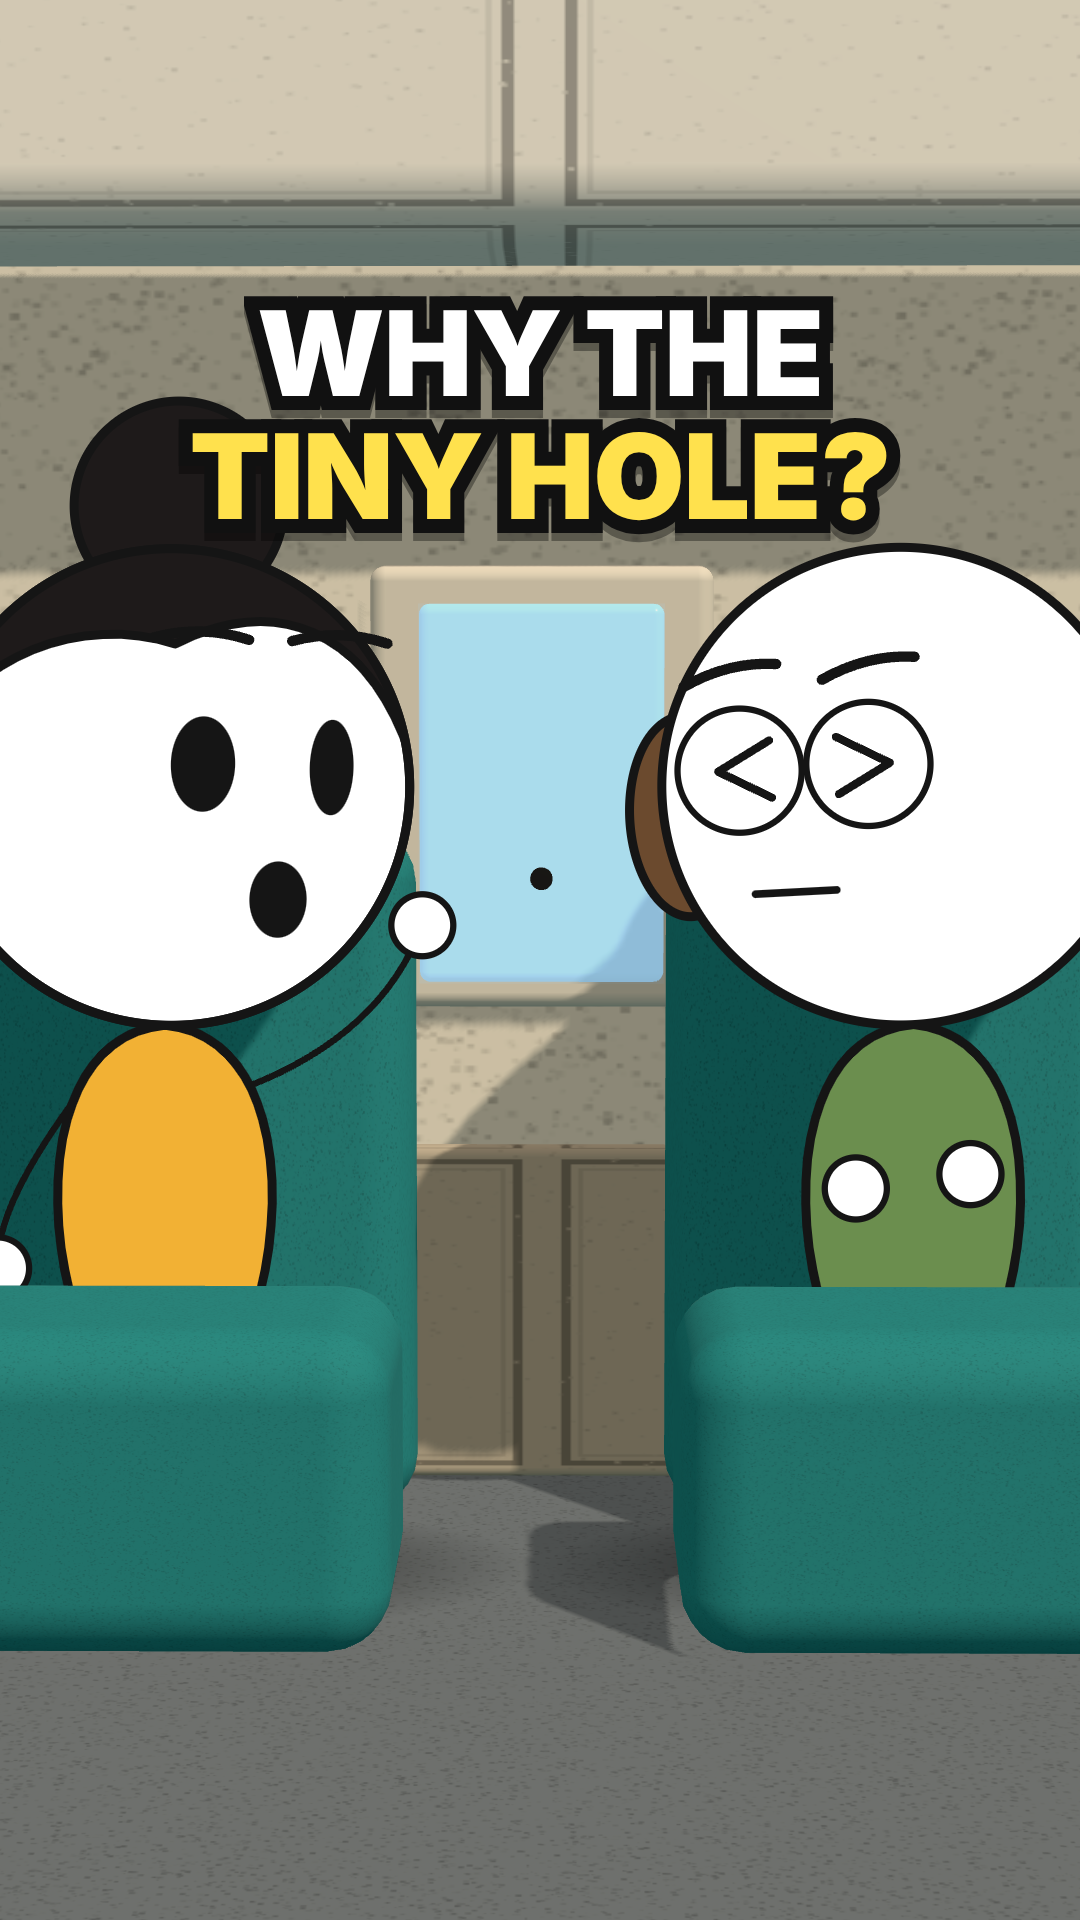
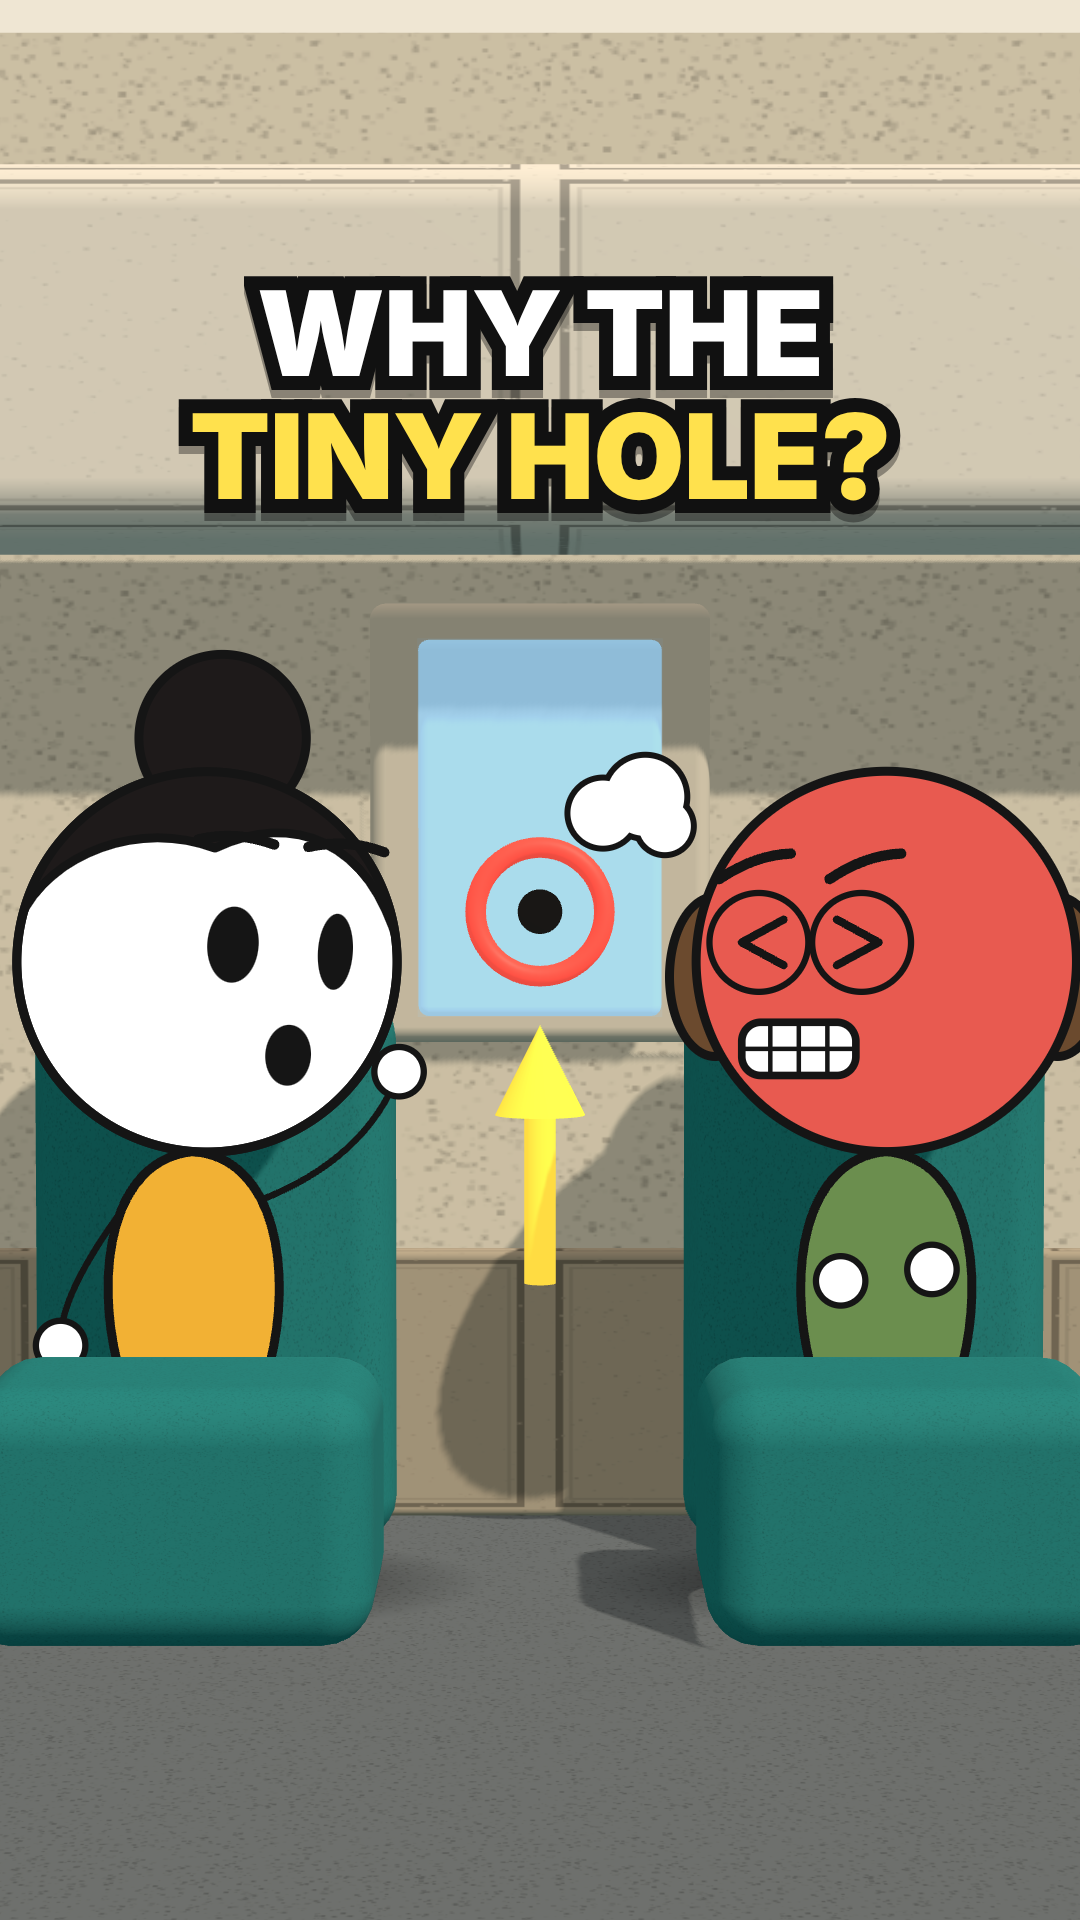
windowhole: redesigned thumbnails (big window with ringed hole, reacting characters, cutaway)
Claude-Session: https://claude.ai/code/session_012R7ivGCTn9A3aAH1J3jYsd

diff --git a/shorts/windowhole-short/src/Short.tsx b/shorts/windowhole-short/src/Short.tsx
@@ -32,11 +32,11 @@ const OTTO0: Partial<PersonPose> = {view: 'left', handL: [24, -168], handR: [-24
 const WALLZ = -1.2;
 const CAB: Light = {sun: [3, 5, 4], sunColor: '#FFF1DC', sunI: 2.1, sky: '#FFF6E8', bounce: '#8FA8A6', ambI: 1.5, fog: ['#EADFCB', 16, 50], focus: [0, 0.8, -0.5], span: 5};
 const CAB_SKY: [string, string] = ['#EFE6D3', '#EFE6D3'];
-const Win: React.FC<{x?: number; hole?: boolean; haze?: number; sc?: number}> = ({x = 0, hole = true, haze = 0, sc = 1}) => (<group position={[x, 0, WALLZ]} scale={sc}>
+const Win: React.FC<{x?: number; hole?: boolean; haze?: number; sc?: number; holeR?: number}> = ({x = 0, hole = true, haze = 0, sc = 1, holeR = 0.02}) => (<group position={[x, 0, WALLZ]} scale={sc}>
   <Box pos={[0, 0.88, 0.02]} size={[0.62, 0.8, 0.06]} color="#E4DCCB" r={0.14} rough={0.6} />
   <Box pos={[0, 0.93, 0.07]} size={[0.44, 0.68, 0.04]} color="#74B8EE" r={0.1} rough={0.2} emissive="#9ED3F7" glow={0.75} />
   <Box pos={[0, 0.93, 0.1]} size={[0.44, 0.68, 0.01]} color="#D6ECFB" opacity={0.3} r={0.1} rough={0.1} cast={false} />
-  {hole && <Cyl pos={[0, 1.12, 0.112]} rot={[Math.PI / 2, 0, 0]} r={0.02} h={0.012} color="#0B0B0D" cast={false} />}
+  {hole && <Cyl pos={[0, 1.12, 0.112]} rot={[Math.PI / 2, 0, 0]} r={holeR} h={0.012} color="#0B0B0D" cast={false} />}
   {haze > 0.01 && <Box pos={[0, 0.93, 0.125]} size={[0.44, 0.68, 0.01]} color="#F4F7FA" opacity={haze} r={0.1} cast={false} />}
 </group>);
 const Cabin: React.FC<{wins?: number[]; haze?: number; hole?: boolean; sc?: number; seats?: boolean}> = ({wins = [0], haze = 0, hole = true, sc = 1, seats = true}) => (<>
@@ -279,8 +279,36 @@ export const Short: React.FC<{voice?: boolean; captions?: boolean; guides?: bool
   </AbsoluteFill>);
 };
 
-// ---------------------------------------------------------------- thumbnails (frames of the video + text)
+// ---------------------------------------------------------------- thumbnails (purpose-built frames + text)
+const Ring: React.FC<{p: V3; r: number}> = ({p, r}) => (<mesh position={p}><torusGeometry args={[r, r * 0.16, 14, 48]} /><meshStandardMaterial color="#E5483D" emissive="#E5483D" emissiveIntensity={0.9} roughness={0.5} /></mesh>);
+const ThumbSeats: React.FC<{xs: number[]; front?: boolean}> = ({xs, front}) => (<>{xs.map((x, i) => front
+  ? <Box key={i} pos={[x, 0, -0.3]} size={[0.8, 0.5, 0.52]} color="#1F8A8A" map={tex('speckle', [3, 3], 14)} r={0.1} />
+  : <Box key={i} pos={[x, 0, -0.98]} size={[0.8, 1.22, 0.2]} color="#1F8A8A" map={tex('speckle', [3, 3], 12)} r={0.1} />)}</>);
+/** the big window with an exaggerated hole, a red ring and a yellow arrow pointing at it */
+const HeroWindow: React.FC<{x: number; sc: number}> = ({x, sc}) => {
+  const hp: V3 = [x, 1.12 * sc, WALLZ + 0.112 * sc + 0.035];
+  return (<><Win x={x} sc={sc} holeR={0.04} /><Ring p={hp} r={0.115 * sc} />
+    <Arrow pos={[hp[0], hp[1] - 0.66 * sc, hp[2] + 0.05]} rot={[0, 0, 0]} len={0.3 * sc} s={1} /></>);
+};
+const ThumbA: React.FC = () => (
+  <World cam={{pos: [0, 1.5, 5.2], look: [0, 1.3, -0.8], fov: 38}} light={CAB} sky={CAB_SKY}
+    scene={<><Cabin wins={[]} seats={false} /><ThumbSeats xs={[-0.72, 0.72]} /><HeroWindow x={0} sc={1.25} /></>} front={<ThumbSeats xs={[-0.72, 0.72]} front />}>
+    <Cel at={[-0.72, 0, -0.55]}><Mia view="right" handR={[108, -272]} handL={[-70, -128]} eyes="wide" mouth="o" browUp={1} headTilt={4} /></Cel>
+    <Cel at={[0.72, 0, -0.55]}><Otto view="left" handL={[24, -168]} handR={[-24, -162]} eyes="squeeze" mouth="teeth" brow={0.9} tint="#E5483D" tintAmt={0.9} steam={0.9} t={1} /></Cel>
+  </World>);
+const ThumbB: React.FC = () => (
+  <World cam={{pos: [0, 1.5, 4.4], look: [0, 1.25, -0.8], fov: 38}} light={CAB} sky={CAB_SKY}
+    scene={<><Cabin wins={[]} seats={false} /><ThumbSeats xs={[0.42]} /><HeroWindow x={-0.38} sc={1.15} /></>} front={<ThumbSeats xs={[0.42]} front />}>
+    <Cel at={[0.42, 0, -0.55]}><Otto view="left" handL={[24, -168]} handR={[-24, -162]} eyes="squeeze" mouth="teeth" brow={0.9} tint="#E5483D" tintAmt={0.9} steam={0.9} t={1} /></Cel>
+  </World>);
+const ThumbC: React.FC = () => (
+  <World cam={{pos: [0.0, 1.3, 5.2], look: [-0.12, 0.62, 0], fov: 38}} light={STAGE} sky={STAGE_SKY}
+    scene={<><Stage /><GlassP x={-0.5} hot={0.9} /><GlassP x={0} holed /><GlassP x={0.5} />
+      {[0.35, 0.61, 0.87].map((y, i) => <Arrow key={i} pos={[0.95, y, 0]} rot={[0, 0, POINT_L]} len={0.35} s={1} />)}
+      <Dots pts={cloudPts(30, 0.1, 1.0, 0.08, 1.12, -0.3, 0.3, 90, 0)} r={0.03} color="#FFFFFF" /></>}>
+    <Cel at={[-0.66, 0, 0.45]} h={1.1}><Mia view="right" eyes="wide" mouth="o" browUp={1} handR={[100, -270]} handL={[-70, -128]} /></Cel>
+  </World>);
 export const Thumb: React.FC<{variant: 'A' | 'B' | 'C'}> = ({variant}) => {
-  const cfg = {A: {t: K.hole + 0.15, l1: 'WHY THE', l2: 'TINY HOLE?', top: 250}, B: {t: K.sure + 0.6, l1: 'A MISTAKE?', l2: 'NOPE', top: 130}, C: {t: K.gap + 0.5, l1: 'THE REAL', l2: 'REASON', top: 205}}[variant];
-  return (<AbsoluteFill><Scenes t={cfg.t} /><ThumbText l1={cfg.l1} l2={cfg.l2} top={cfg.top} /></AbsoluteFill>);
+  const cfg = {A: {n: <ThumbA />, l1: 'WHY THE', l2: 'TINY HOLE?', top: 230}, B: {n: <ThumbB />, l1: 'A MISTAKE?', l2: 'NOPE', top: 130}, C: {n: <ThumbC />, l1: 'THE REAL', l2: 'REASON', top: 230}}[variant];
+  return (<AbsoluteFill>{cfg.n}<ThumbText l1={cfg.l1} l2={cfg.l2} top={cfg.top} /></AbsoluteFill>);
 };
